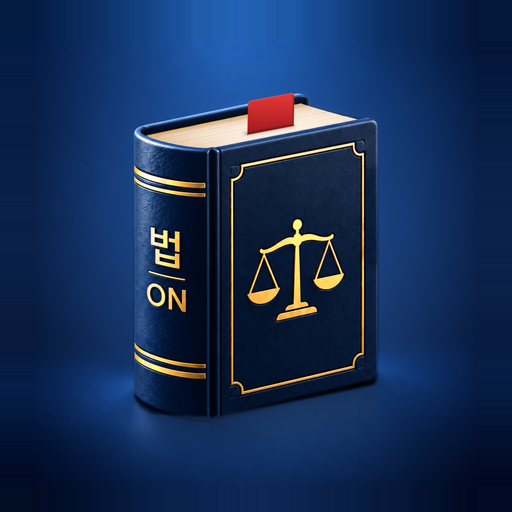
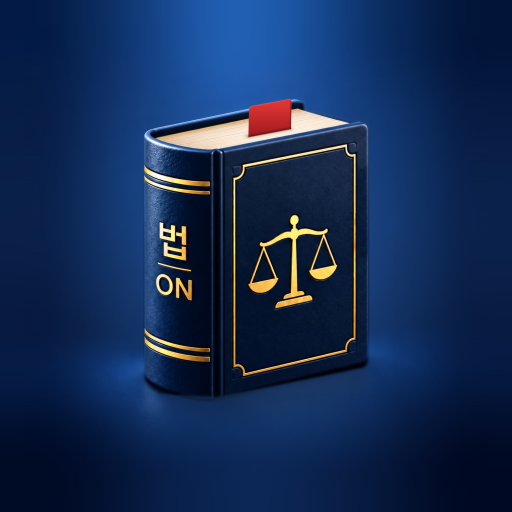
Add files via upload

Changed region(s): [[0.125, 0.1562, 0.8125, 0.9062]]

diff --git a/service-worker.js b/service-worker.js
@@ -3,10 +3,8 @@
 //   저장본을 띄운 뒤 받은 새 화면이 저장본과 다르면 열려 있는 화면에 알림 → 화면 쪽에서 자동 업데이트
 // - 아이콘·manifest: 저장본 우선, 뒤에서 새로 받아 둠
 // - 그 밖의 요청(업데이트 확인, 국가법령정보센터 등)은 건드리지 않음
-// index.html만 바꿀 때는 이 파일을 고칠 필요 없음. 이 파일·아이콘·manifest를 바꿀 때만 CACHE_NAME 숫자를 올림(lawon-v4 → lawon-v5)
-// 캐시 저장소는 주소(yeonskimm.github.io) 단위로 「오늘의안전」(onul-safety-)과 공유됨 → 삭제는 반드시 내 접두어(lawon-·옛 이름 beopon-)만
-const CACHE_NAME = 'lawon-v4';
-const MY_CACHE = k => k.startsWith('lawon-') || k.startsWith('beopon-');
+// index.html만 바꿀 때는 이 파일을 고칠 필요 없음. 이 파일·아이콘·manifest를 바꿀 때만 CACHE_NAME 숫자를 올림(lawon-v2 → lawon-v3)
+const CACHE_NAME = 'lawon-v3';   // 2026-09-25 책자 아이콘 교체로 올림
 const PAGE_KEY = './index.html';
 const ASSETS = ['./manifest.json', './icon-192.png', './icon-512.png', './icon-maskable-512.png'];
 const ASSET_PATHS = ASSETS.map(a => new URL(a, self.registration.scope).pathname);
@@ -20,7 +18,7 @@ self.addEventListener('install', event => {
 self.addEventListener('activate', event => {
   event.waitUntil(
     caches.keys()
-      .then(keys => Promise.all(keys.filter(k => MY_CACHE(k) && k !== CACHE_NAME).map(k => caches.delete(k))))   // 내 이전 캐시(lawon-v2, beopon-v1 등)만 삭제 — 오늘의안전 캐시는 건드리지 않음
+      .then(keys => Promise.all(keys.filter(k => k !== CACHE_NAME).map(k => caches.delete(k))))   // 이전 캐시(beopon-v1 등) 삭제
       .then(() => self.clients.claim())
   );
 });
